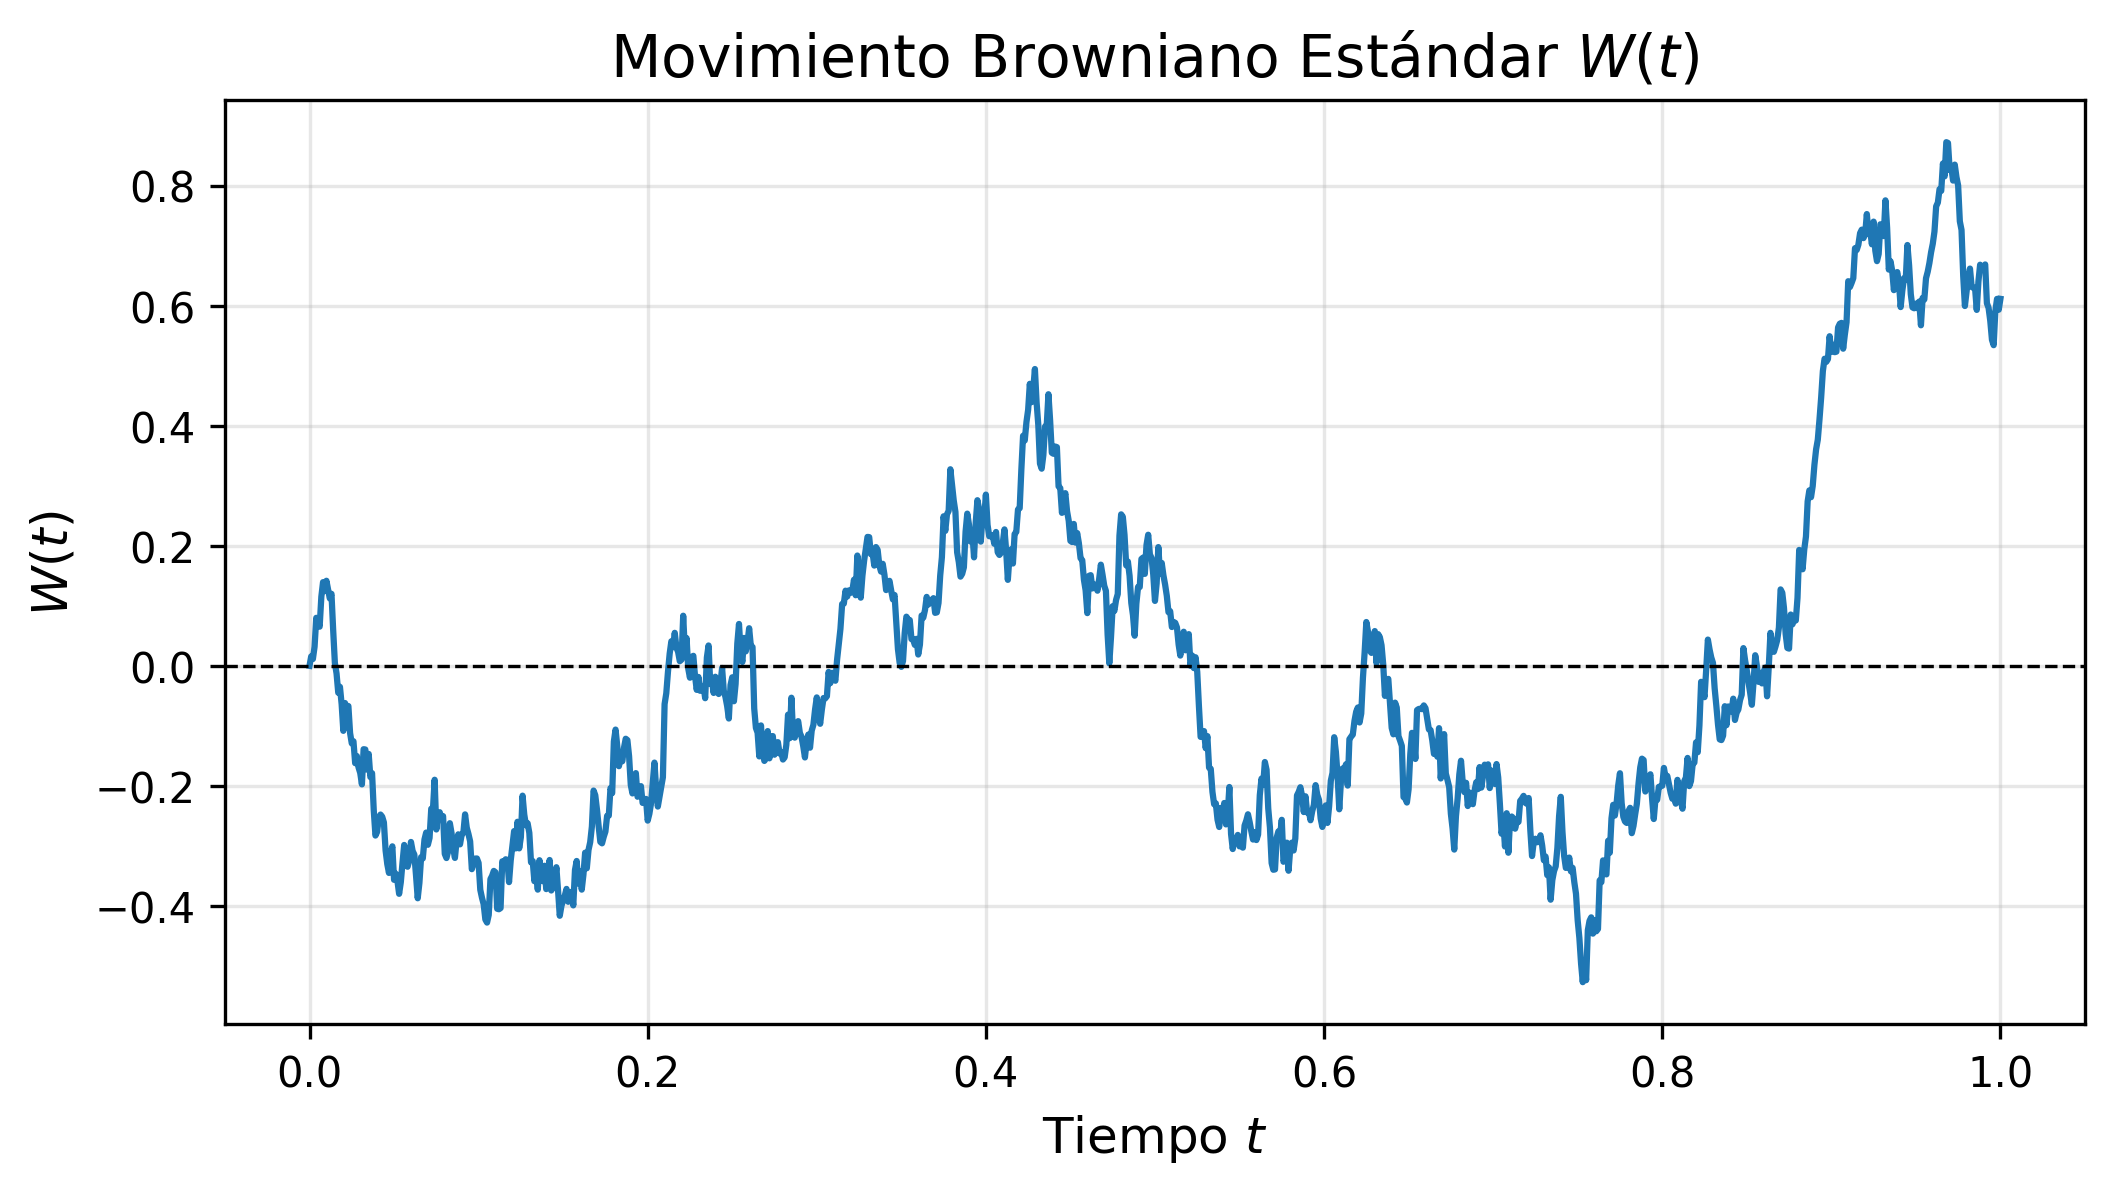
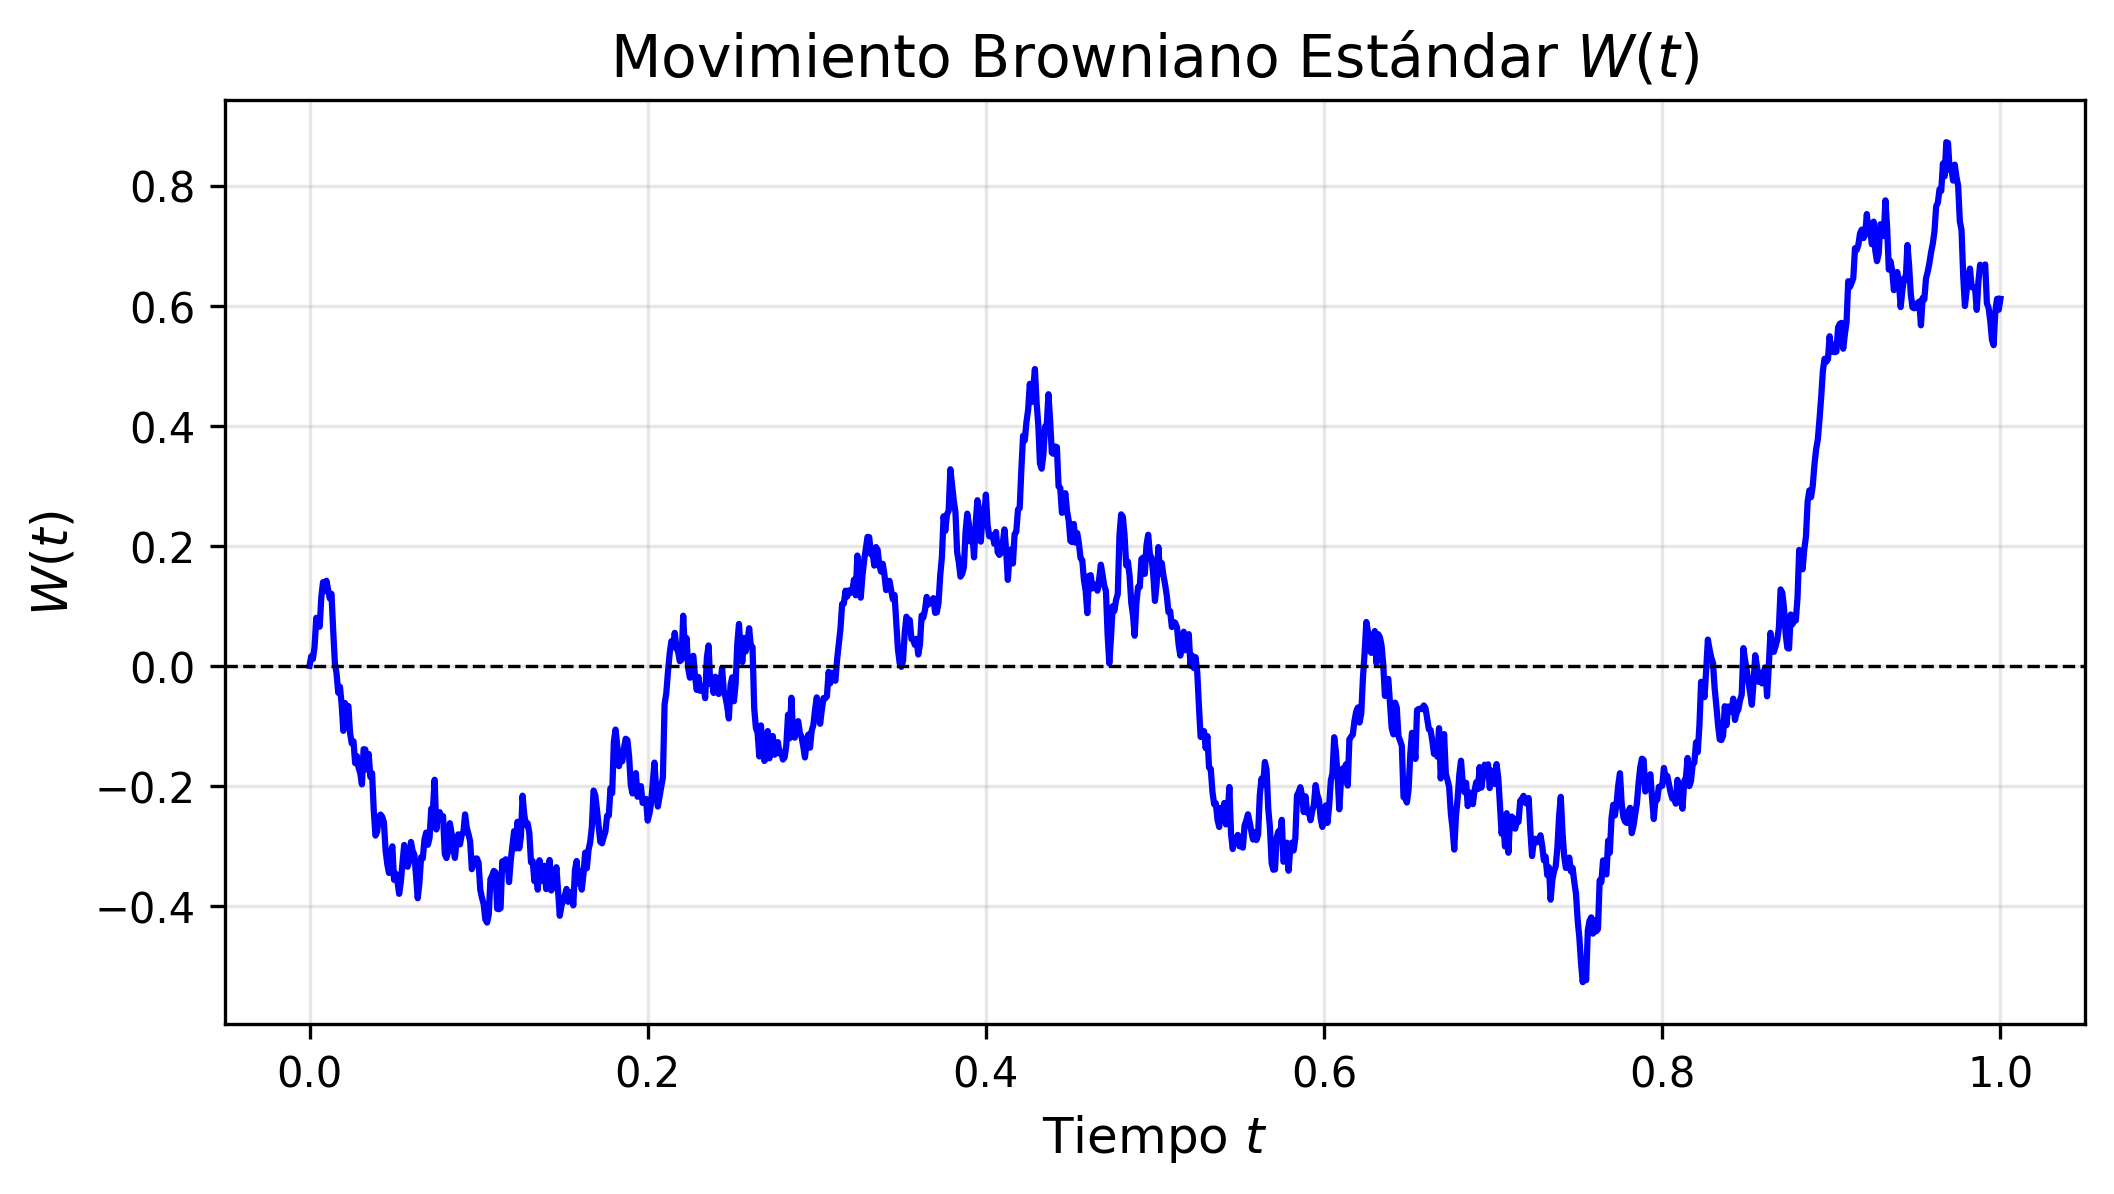
proceso de poisson

Changed region(s): [[0.1249, 0.3099, 0.562, 0.7747], [0.562, 0.5268, 0.843, 0.8057], [0.843, 0.124, 0.9678, 0.5268]]

diff --git a/_book/fundamentos_teoricos.html b/_book/fundamentos_teoricos.html
@@ -421,7 +421,7 @@ window.Quarto = {
     <h2 id="toc-title">Tabla de contenidos</h2>
    
   <ul>
-  <li><a href="#procesos-estocásticos-de-soporte" id="toc-procesos-estocásticos-de-soporte" class="nav-link active" data-scroll-target="#procesos-estocásticos-de-soporte"><span class="header-section-number">2.1</span> Procesos Estocásticos de Soporte</a>
+  <li><a href="#procesos-estocásticos" id="toc-procesos-estocásticos" class="nav-link active" data-scroll-target="#procesos-estocásticos"><span class="header-section-number">2.1</span> Procesos Estocásticos</a>
   <ul class="collapse">
   <li><a href="#movimiento-browniano-proceso-de-wiener" id="toc-movimiento-browniano-proceso-de-wiener" class="nav-link" data-scroll-target="#movimiento-browniano-proceso-de-wiener"><span class="header-section-number">2.1.1</span> Movimiento Browniano (Proceso de Wiener)</a></li>
   <li><a href="#proceso-de-poisson-homogéneo" id="toc-proceso-de-poisson-homogéneo" class="nav-link" data-scroll-target="#proceso-de-poisson-homogéneo"><span class="header-section-number">2.1.2</span> Proceso de Poisson Homogéneo</a></li>
@@ -456,13 +456,13 @@ window.Quarto = {
 </header>
 
 
-<p>En este capítulo presentaremos las bases conceptuales y el marco formal del cálculo estocástico que fundamentan el desarrollo de nuestro modelo matemático para la red de frío. Siguiendo un enfoque deductivo, se definirán en primer lugar los procesos estocásticos elementales para, posteriormente, construir la ecuación diferencial estocástica (EDE) híbrida que rige el sistema.</p>
-<section id="procesos-estocásticos-de-soporte" class="level2" data-number="2.1">
-<h2 data-number="2.1" class="anchored" data-anchor-id="procesos-estocásticos-de-soporte"><span class="header-section-number">2.1</span> Procesos Estocásticos de Soporte</h2>
+<p>En este capítulo se presentarán las bases conceptuales y el marco formal del cálculo estocástico que fundamentan el desarrollo de nuestro modelo matemático para la red de frío. Se definirán en primer lugar los procesos estocásticos elementales para, posteriormente, construir la ecuación diferencial estocástica (EDE) híbrida que rige el sistema.</p>
+<section id="procesos-estocásticos" class="level2" data-number="2.1">
+<h2 data-number="2.1" class="anchored" data-anchor-id="procesos-estocásticos"><span class="header-section-number">2.1</span> Procesos Estocásticos</h2>
 <p>El modelado térmico de un refrigerador de vacunas expuesto a incertidumbres continuas y perturbaciones discretas requiere herramientas más allá del cálculo determinista. Los componentes aleatorios de nuestro sistema se sustentan en tres procesos estocásticos fundamentales.</p>
 <section id="movimiento-browniano-proceso-de-wiener" class="level3" data-number="2.1.1">
 <h3 data-number="2.1.1" class="anchored" data-anchor-id="movimiento-browniano-proceso-de-wiener"><span class="header-section-number">2.1.1</span> Movimiento Browniano (Proceso de Wiener)</h3>
-<p>Para representar las fluctuaciones térmicas continuas de baja intensidad —asociadas al ruido intrínseco del termostato y microtransferencias de calor— se utiliza el movimiento Browniano.</p>
+<p>Para representar las fluctuaciones térmicas continuas de baja intensidad asociadas al ruido intrínseco del termostato y microtransferencias de calor se utiliza el movimiento Browniano.</p>
 <div id="def-movimiento-browniano" class="theorem definition">
 <p><span class="theorem-title"><strong>Definición 2.1 (Proceso de Wiener)</strong></span> Un proceso estocástico continuo en el tiempo <span class="math inline">\(\{W(t)\}_{t \ge 0}\)</span> definido sobre un espacio de probabilidad filtrado <span class="math inline">\((\Omega, \mathcal{F}, \{\mathcal{F}_t\}, \mathbb{P})\)</span> es un movimiento Browniano estándar o proceso de Wiener si cumple con las siguientes propiedades:</p>
 <ol type="1">
@@ -472,7 +472,7 @@ window.Quarto = {
 <li>Sus trayectorias son continuas con probabilidad 1.</li>
 </ol>
 </div>
-<p>El término <span class="math inline">\(dW(t) = W(t+dt) - W(t)\)</span> representa el diferencial formal u operador infinitesimal del proceso de Wiener. Este denota una perturbación gaussiana elemental en un intervalo infinitesimal <span class="math inline">\(dt\)</span>, caracterizada matemáticamente por una media <span class="math inline">\(\mathbb{E}[dW(t)] = 0\)</span> y una varianza <span class="math inline">\(\mathbb{E}[(dW(t))^2] = dt\)</span>. Para una revisión detallada sobre las propiedades de medida y construcciones analíticas de este proceso, se sugiere consultar a <span class="citation" data-cites="platen2010numerical">Platen y Bruti-Liberati (<a href="references.html#ref-platen2010numerical" role="doc-biblioref">2010</a>)</span>.</p>
+<p>El término <span class="math inline">\(dW(t) = W(t+dt) - W(t)\)</span> representa el diferencial del proceso de Wiener. Este denota una perturbación gaussiana elemental en un intervalo infinitesimal <span class="math inline">\(dt\)</span>, caracterizada matemáticamente por una media <span class="math inline">\(\mathbb{E}[dW(t)] = 0\)</span> y una varianza <span class="math inline">\(\mathbb{E}[(dW(t))^2] = dt\)</span>. Para una revisión detallada sobre las propiedades de medida y construcciones analíticas de este proceso, se sugiere consultar a <span class="citation" data-cites="platen2010numerical">Platen y Bruti-Liberati (<a href="references.html#ref-platen2010numerical" role="doc-biblioref">2010</a>)</span>.</p>
 <div id="fig-wiener" class="quarto-float quarto-figure quarto-figure-center anchored" data-fig-align="center">
 <figure class="quarto-float quarto-float-fig figure">
 <div aria-describedby="fig-wiener-caption-0ceaefa1-69ba-4598-a22c-09a6ac19f8ca">
@@ -498,14 +498,17 @@ Figura&nbsp;2.1: Trayectoria simulada del proceso de Wiener. El eje horizontal r
 \mathbb{P}(N(t + s) - N(s) = n) = \frac{(\lambda t)^n e^{-\lambda t}}{n!}, \quad n = 0, 1, 2, \dots
 \]</span></p>
 </div>
-<p>El comportamiento infinitesimal del proceso se captura a través de su diferencial <span class="math inline">\(dN(t)\)</span>, el cual contabiliza el número de saltos en un intervalo elemental <span class="math inline">\(dt\)</span>. Formalmente, sus probabilidades de transición en un horizonte infinitesimal están dadas por:</p>
-<p><span class="math display">\[
-dN(t) = \begin{cases}
-1 &amp; \text{con probabilidad } \lambda dt + o(dt) \\
-0 &amp; \text{con probabilidad } 1 - \lambda dt + o(dt)
-\end{cases}
-\]</span></p>
-<p>donde <span class="math inline">\(o(dt)\)</span> denota términos de orden superior que convergen a cero más rápido que <span class="math inline">\(dt\)</span>. Una exposición rigurosa sobre los procesos de conteo y sus aplicaciones en sistemas con discontinuidades puede encontrarse en <span class="citation" data-cites="platen2010numerical">Platen y Bruti-Liberati (<a href="references.html#ref-platen2010numerical" role="doc-biblioref">2010</a>)</span>.</p>
+<p>Una exposición rigurosa sobre los procesos de conteo y sus aplicaciones en sistemas con discontinuidades puede encontrarse en <span class="citation" data-cites="platen2010numerical">Platen y Bruti-Liberati (<a href="references.html#ref-platen2010numerical" role="doc-biblioref">2010</a>)</span>.</p>
+<div id="fig-poisson" class="quarto-float quarto-figure quarto-figure-center anchored" data-fig-align="center">
+<figure class="quarto-float quarto-float-fig figure">
+<div aria-describedby="fig-poisson-caption-0ceaefa1-69ba-4598-a22c-09a6ac19f8ca">
+<img src="proceso_poisson.png" class="img-fluid quarto-figure quarto-figure-center figure-img" style="width:85.0%">
+</div>
+<figcaption class="quarto-float-caption-bottom quarto-float-caption quarto-float-fig" id="fig-poisson-caption-0ceaefa1-69ba-4598-a22c-09a6ac19f8ca">
+Figura&nbsp;2.2: Trayectorias simuladas de dos procesos de Poisson. El eje horizontal representa el tiempo de observación en un horizonte de <span class="math inline">\(T = 10.0\)</span> con incrementos discretos de <span class="math inline">\(dt = 0.01\)</span>. El eje vertical contabiliza el número acumulado de eventos discretos <span class="math inline">\(N(t)\)</span>, iniciando en <span class="math inline">\(N(0) = 0\)</span>. La línea continua (azul) ilustra un Proceso de Poisson Homogéneo con una tasa de intensidad constante <span class="math inline">\(\lambda = 1\)</span>, evidenciando incrementos estacionarios, por otro lado la línea punteada (roja) representa un Proceso de Poisson No Homogéneo con una intensidad de <span class="math inline">\(\lambda(t) = \frac{1}{2} + \frac{5}{2} \sin\left(\frac{\pi}{10}\right)\)</span>, es decir es dependiente del tiempo, concentrando una mayor densidad de saltos en el periodo central del intervalo (simulando, por ejemplo, las horas pico de aperturas del refrigerador durante una jornada clínica). Ambas gráficas exhiben la naturaleza escalonada continua por la derecha con límites por la izquierda (càdlàg), propia de los procesos de saltos puros.
+</figcaption>
+</figure>
+</div>
 </section>
 <section id="cadenas-de-markov-de-tiempo-continuo" class="level3" data-number="2.1.3">
 <h3 data-number="2.1.3" class="anchored" data-anchor-id="cadenas-de-markov-de-tiempo-continuo"><span class="header-section-number">2.1.3</span> Cadenas de Markov de Tiempo Continuo</h3>

diff --git a/Reporte-de-Investigación---Verano-Delfín.tex b/Reporte-de-Investigación---Verano-Delfín.tex
@@ -187,10 +187,10 @@
 \floatname{codelisting}{Listado}
 \newcommand*\listoflistings{\listof{codelisting}{Listado de Listados}}
 \usepackage{amsthm}
-\theoremstyle{plain}
-\newtheorem{theorem}{Teorema}[chapter]
 \theoremstyle{definition}
 \newtheorem{definition}{Definición}[chapter]
+\theoremstyle{plain}
+\newtheorem{theorem}{Teorema}[chapter]
 \theoremstyle{remark}
 \AtBeginDocument{\renewcommand*{\proofname}{Demostración}}
 \newtheorem*{remark}{Observación}
@@ -247,15 +247,13 @@
 
 \chapter{Fundamentos Teóricos}\label{fundamentos-teuxf3ricos}
 
-En este capítulo presentaremos las bases conceptuales y el marco formal
+En este capítulo se presentarán las bases conceptuales y el marco formal
 del cálculo estocástico que fundamentan el desarrollo de nuestro modelo
-matemático para la red de frío. Siguiendo un enfoque deductivo, se
-definirán en primer lugar los procesos estocásticos elementales para,
-posteriormente, construir la ecuación diferencial estocástica (EDE)
-híbrida que rige el sistema.
+matemático para la red de frío. Se definirán en primer lugar los
+procesos estocásticos elementales para, posteriormente, construir la
+ecuación diferencial estocástica (EDE) híbrida que rige el sistema.
 
-\section{Procesos Estocásticos de
-Soporte}\label{procesos-estocuxe1sticos-de-soporte}
+\section{Procesos Estocásticos}\label{procesos-estocuxe1sticos}
 
 El modelado térmico de un refrigerador de vacunas expuesto a
 incertidumbres continuas y perturbaciones discretas requiere
@@ -267,8 +265,8 @@ fundamentales.
 Wiener)}\label{movimiento-browniano-proceso-de-wiener}
 
 Para representar las fluctuaciones térmicas continuas de baja intensidad
----asociadas al ruido intrínseco del termostato y microtransferencias de
-calor--- se utiliza el movimiento Browniano.
+asociadas al ruido intrínseco del termostato y microtransferencias de
+calor se utiliza el movimiento Browniano.
 
 \begin{definition}[Proceso de
 Wiener]\protect\hypertarget{def-movimiento-browniano}{}\label{def-movimiento-browniano}
@@ -299,13 +297,13 @@ siguientes propiedades:
 
 \end{definition}
 
-El término \(dW(t) = W(t+dt) - W(t)\) representa el diferencial formal u
-operador infinitesimal del proceso de Wiener. Este denota una
-perturbación gaussiana elemental en un intervalo infinitesimal \(dt\),
-caracterizada matemáticamente por una media \(\mathbb{E}[dW(t)] = 0\) y
-una varianza \(\mathbb{E}[(dW(t))^2] = dt\). Para una revisión detallada
-sobre las propiedades de medida y construcciones analíticas de este
-proceso, se sugiere consultar a Platen y Bruti-Liberati
+El término \(dW(t) = W(t+dt) - W(t)\) representa el diferencial del
+proceso de Wiener. Este denota una perturbación gaussiana elemental en
+un intervalo infinitesimal \(dt\), caracterizada matemáticamente por una
+media \(\mathbb{E}[dW(t)] = 0\) y una varianza
+\(\mathbb{E}[(dW(t))^2] = dt\). Para una revisión detallada sobre las
+propiedades de medida y construcciones analíticas de este proceso, se
+sugiere consultar a Platen y Bruti-Liberati
 (\citeproc{ref-platen2010numerical}{2010}).
 
 \begin{figure}
@@ -358,23 +356,36 @@ siguientes condiciones:
 
 \end{definition}
 
-El comportamiento infinitesimal del proceso se captura a través de su
-diferencial \(dN(t)\), el cual contabiliza el número de saltos en un
-intervalo elemental \(dt\). Formalmente, sus probabilidades de
-transición en un horizonte infinitesimal están dadas por:
+Una exposición rigurosa sobre los procesos de conteo y sus aplicaciones
+en sistemas con discontinuidades puede encontrarse en Platen y
+Bruti-Liberati (\citeproc{ref-platen2010numerical}{2010}).
 
-\[
-dN(t) = \begin{cases} 
-1 & \text{con probabilidad } \lambda dt + o(dt) \\ 
-0 & \text{con probabilidad } 1 - \lambda dt + o(dt) 
-\end{cases}
-\]
+\begin{figure}
 
-donde \(o(dt)\) denota términos de orden superior que convergen a cero
-más rápido que \(dt\). Una exposición rigurosa sobre los procesos de
-conteo y sus aplicaciones en sistemas con discontinuidades puede
-encontrarse en Platen y Bruti-Liberati
-(\citeproc{ref-platen2010numerical}{2010}).
+\centering{
+
+\includegraphics[width=0.85\linewidth,height=\textheight,keepaspectratio]{proceso_poisson.png}
+
+}
+
+\caption{\label{fig-poisson}Trayectorias simuladas de dos procesos de
+Poisson. El eje horizontal representa el tiempo de observación en un
+horizonte de \(T = 10.0\) con incrementos discretos de \(dt = 0.01\). El
+eje vertical contabiliza el número acumulado de eventos discretos
+\(N(t)\), iniciando en \(N(0) = 0\). La línea continua (azul) ilustra un
+Proceso de Poisson Homogéneo con una tasa de intensidad constante
+\(\lambda = 1\), evidenciando incrementos estacionarios, por otro lado
+la línea punteada (roja) representa un Proceso de Poisson No Homogéneo
+con una intensidad de
+\(\lambda(t) = \frac{1}{2} + \frac{5}{2} \sin\left(\frac{\pi}{10}\right)\),
+es decir es dependiente del tiempo, concentrando una mayor densidad de
+saltos en el periodo central del intervalo (simulando, por ejemplo, las
+horas pico de aperturas del refrigerador durante una jornada clínica).
+Ambas gráficas exhiben la naturaleza escalonada continua por la derecha
+con límites por la izquierda (càdlàg), propia de los procesos de saltos
+puros.}
+
+\end{figure}%
 
 \subsection{Cadenas de Markov de Tiempo
 Continuo}\label{cadenas-de-markov-de-tiempo-continuo}